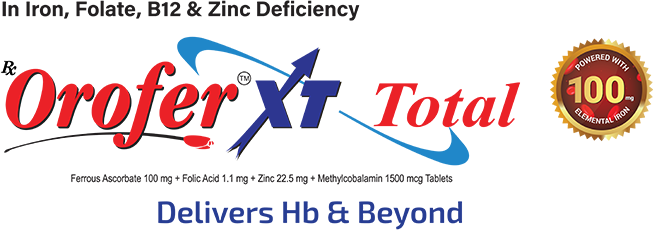
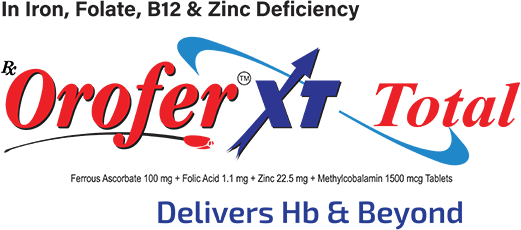
Update

diff --git a/3/html/slide6/slide6.css b/3/html/slide6/slide6.css
@@ -16,7 +16,7 @@
   top: 51px;
   width: 698px;
   height: 38px;
-	animation: fadeInUp 0.5s;
+	animation: none 0.5s;
 	animation-delay: 0.2s;
 	animation-fill-mode: both;
 	z-index: 5;
@@ -28,7 +28,7 @@
   top: 160px;
   width: 398px;
   height: 241px;
-	animation: zoomIn 0.5s;
+	animation: none 0.5s;
 	animation-delay: 0.7s;
 	animation-fill-mode: both;
 	transform-origin: left;
@@ -41,7 +41,7 @@
   top: 491px;
   width: 454px;
   height: 243px;
-	animation: zoomIn 0.5s;
+	animation: none 0.5s;
 	animation-delay: 1.2s;
 	animation-fill-mode: both;
 	transform-origin: left;

diff --git a/1/html/slide5/slide5.css b/1/html/slide5/slide5.css
@@ -19,9 +19,9 @@
 
 .s2 {
 	position: absolute;
-  left: 232px;
+  left: 292px;
   top: 42px;
-  width: 653px;
+  width: 521px;
   height: 230px;
 	animation: none 0.5s;
 	animation-delay: 0.2s;

diff --git a/1/html/slide6/slide6.css b/1/html/slide6/slide6.css
@@ -19,9 +19,9 @@
 
 .s2 {
 	position: absolute;
-  left: 224px;
+  left: 234px;
   top: 40px;
-  width: 661px;
+  width: 633px;
   height: 248px;
 	animation: none 0.5s;
 	animation-delay: 0.2s;
